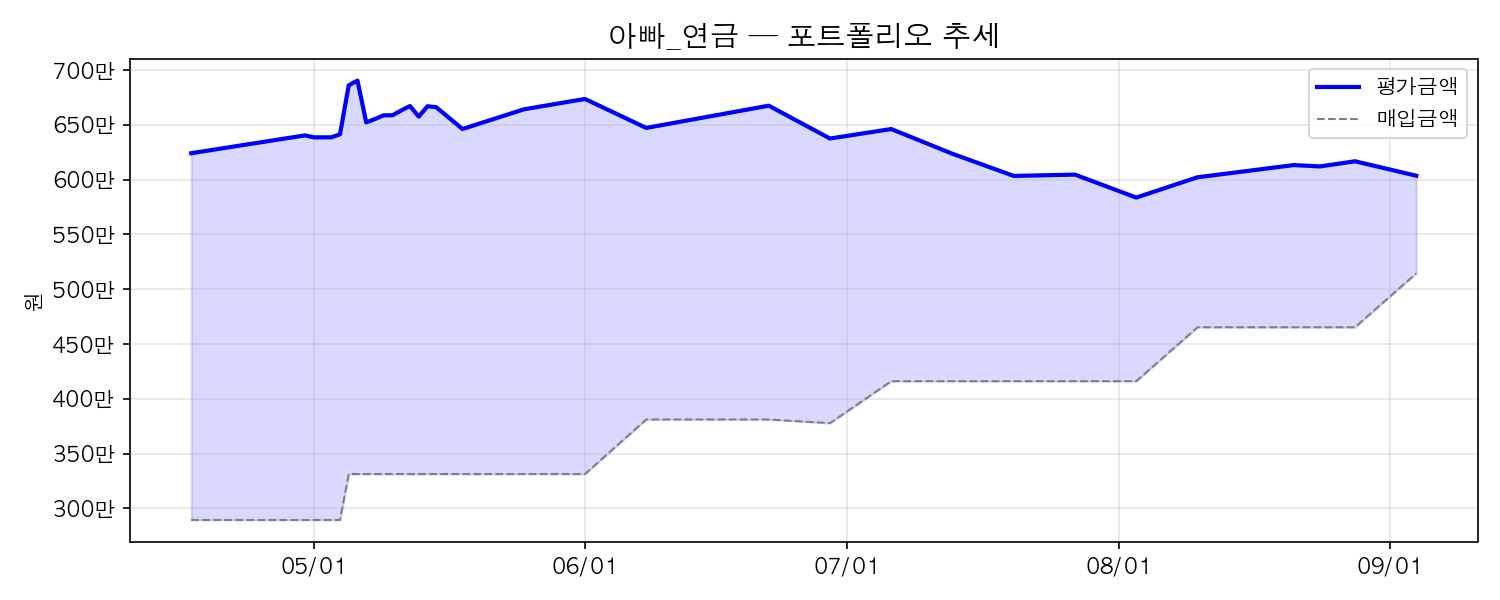
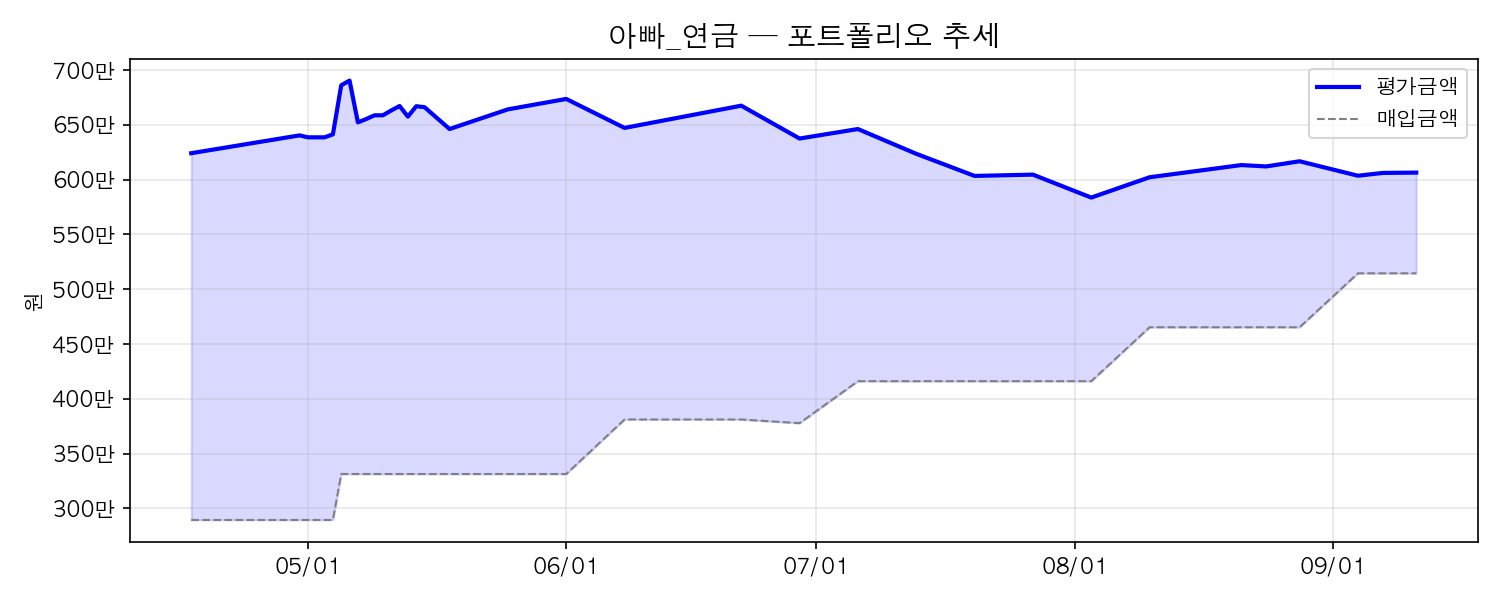
섹션별 주간 리포트 (자동 생성)

diff --git a/_posts/2026-09-11-etf-weekly-week23.md b/_posts/2026-09-11-etf-weekly-week23.md
@@ -1,0 +1,58 @@
+---
+layout: post
+title: "Week 23 — 부모님 연금 ETF 주간 리포트"
+date: 2026-09-11
+categories: [investing, etf]
+tags: [weekly]
+---
+
+> 부모님 연금저축 ETF 실험 — 23주차 기록.
+
+---
+
+## 23주차 성과
+
+### 엄마_연금
+
+| 종목 | 수량 | 평단가 | 종가 | 평가액 | 수익률 |
+|------|------|--------|------|--------|--------|
+| RISE 200 | 12주 | ₩86,453 | ₩110,335 | ₩1,324,020 | +27.6% |
+| ACE KRX금현물 | 47주 | ₩30,513 | ₩26,490 | ₩1,245,030 | -13.2% |
+| KODEX 미국S&P500 | 43주 | ₩23,192 | ₩23,130 | ₩994,590 | -0.3% |
+| TIGER Fn신재생에너지 | 31주 | ₩27,199 | ₩24,490 | ₩759,190 | -9.9% |
+| KODEX 인도Nifty50 | 44주 | ₩12,372 | ₩10,990 | ₩483,560 | -11.2% |
+| TIGER 원유선물Enhanced(H) | 41주 | ₩6,413 | ₩8,260 | ₩338,660 | +28.8% |
+
+**투자 ₩5,119,262 → 평가 ₩5,145,050 | +25,788원 (+0.5%)**
+
+예수금: ₩1,509,175
+
+**이번 주 배당 입금:**
+
+- 2026-09-07 배당금: ₩4,430
+---
+
+### 아빠_연금
+
+| 종목 | 수량 | 평단가 | 종가 | 평가액 | 수익률 |
+|------|------|--------|------|--------|--------|
+| RISE 200 | 12주 | ₩86,489 | ₩110,335 | ₩1,324,020 | +27.6% |
+| ACE KRX금현물 | 47주 | ₩30,514 | ₩26,490 | ₩1,245,030 | -13.2% |
+| KODEX 미국S&P500 | 43주 | ₩23,191 | ₩23,130 | ₩994,590 | -0.3% |
+| TIGER Fn신재생에너지 | 31주 | ₩27,193 | ₩24,490 | ₩759,190 | -9.9% |
+| KODEX 인도Nifty50 | 44주 | ₩12,379 | ₩10,990 | ₩483,560 | -11.2% |
+| TIGER 원유선물Enhanced(H) | 41주 | ₩6,405 | ₩8,260 | ₩338,660 | +28.9% |
+| PLUS 고배당주 | 1주 | ₩25,370 | ₩25,520 | ₩25,520 | +0.6% |
+
+**투자 ₩5,144,882 → 평가 ₩5,170,570 | +25,688원 (+0.5%)**
+
+예수금: ₩892,997
+
+**이번 주 배당 입금:**
+
+- 2026-09-07 배당금: ₩3,325
+
+
+---
+
+*데이터: 한국투자증권 KIS Open API / 2026-09-11 장 마감 기준*

diff --git a/_posts/2026-09-11-dividend-weekly-week23.md b/_posts/2026-09-11-dividend-weekly-week23.md
@@ -1,0 +1,36 @@
+---
+layout: post
+title: "Week 23 — ISA 배당 포트 주간 리포트"
+date: 2026-09-11
+categories: [investing, dividend]
+tags: [weekly]
+---
+
+> ISA 배당 포트폴리오 — 23주차 기록.
+
+---
+
+## 23주차 성과
+
+### 한투_ISA
+
+| 종목 | 수량 | 평단가 | 종가 | 평가액 | 수익률 |
+|------|------|--------|------|--------|--------|
+| 빙그레 | 23주 | ₩73,386 | ₩88,800 | ₩2,042,400 | +21.0% |
+| KT&G | 11주 | ₩168,800 | ₩171,800 | ₩1,889,800 | +1.8% |
+| KODEX 고배당주 | 101주 | ₩18,042 | ₩17,855 | ₩1,803,355 | -1.0% |
+| 고려신용정보 | 196주 | ₩10,100 | ₩9,050 | ₩1,773,800 | -10.4% |
+| 삼성화재우 | 4주 | ₩374,400 | ₩422,500 | ₩1,690,000 | +12.8% |
+
+**투자 ₩8,844,128 → 평가 ₩9,199,355 | +355,227원 (+4.0%)**
+
+예수금: ₩473,392
+
+**이번 주 배당 입금:**
+
+- 2026-09-07 배당금: ₩298
+
+
+---
+
+*데이터: 한국투자증권 KIS Open API / 2026-09-11 장 마감 기준*
